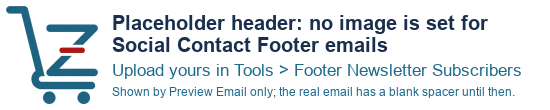
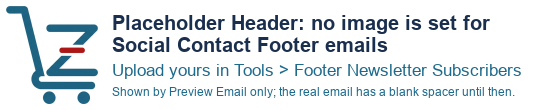
Placeholder Header (Title Case) and the owner notice's real module name

Changed region(s): [[0.4018, 0.1364, 0.8964, 0.3273]]

diff --git a/zc_plugins/PreviewEmail/v3.0.0/shared/emails/plugins/social_contact_footer.php b/zc_plugins/PreviewEmail/v3.0.0/shared/emails/plugins/social_contact_footer.php
@@ -55,8 +55,8 @@ $previewEmailScfHeader = static function (array &$notes): array {
     $notes[] = 'Social Contact Footer sends this email with a blank header: it uses only a header image uploaded on Tools > Footer Newsletter Subscribers (its own page, not its Configuration settings), and none is. The banner shown here is a placeholder from Preview Email, not part of the real email.';
     return [
         'EMAIL_LOGO_FILE' => HTTP_CATALOG_SERVER . DIR_WS_CATALOG . 'zc_plugins/PreviewEmail/v3.0.0/images/scf_header_placeholder.png',
-        'EMAIL_LOGO_ALT_TEXT' => 'Placeholder header: no image is set for Social Contact Footer emails',
-        'EMAIL_LOGO_ALT_TITLE_TEXT' => 'Placeholder header: no image is set for Social Contact Footer emails',
+        'EMAIL_LOGO_ALT_TEXT' => 'Placeholder Header: no image is set for Social Contact Footer emails',
+        'EMAIL_LOGO_ALT_TITLE_TEXT' => 'Placeholder Header: no image is set for Social Contact Footer emails',
         'EMAIL_LOGO_WIDTH' => '550',
         'EMAIL_LOGO_HEIGHT' => '110',
     ];
@@ -168,7 +168,7 @@ return [
         'sort' => 14,
         'label' => 'New Subscriber Notice to the Store Owner',
         'describe' => 'Plain text to the store owner when a subscriber confirms.',
-        'module' => 'default',
+        'module' => 'social_contact_footer_admin',
         'page_base' => 'index',
         'build' => static function (array $def) use ($previewEmailScfPrepare): array {
             $previewEmailScfPrepare();
